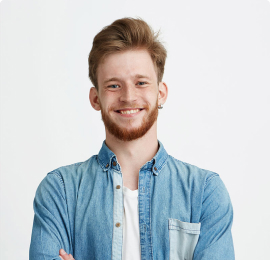
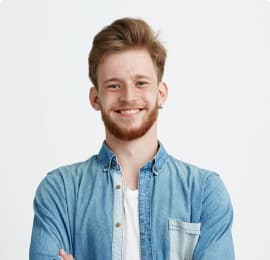
Оптимизирует изображения

diff --git a/css/styles.css b/css/styles.css
@@ -226,7 +226,7 @@ body {
       rgba(47, 48, 58, 0.8),
       rgba(47, 48, 58, 0.8)
     ),
-    url('../images/Hero-img.png');
+    url('../images/Hero-img.jpg');
   background-size: cover;
   background-repeat: no-repeat;
   background-position: center;
